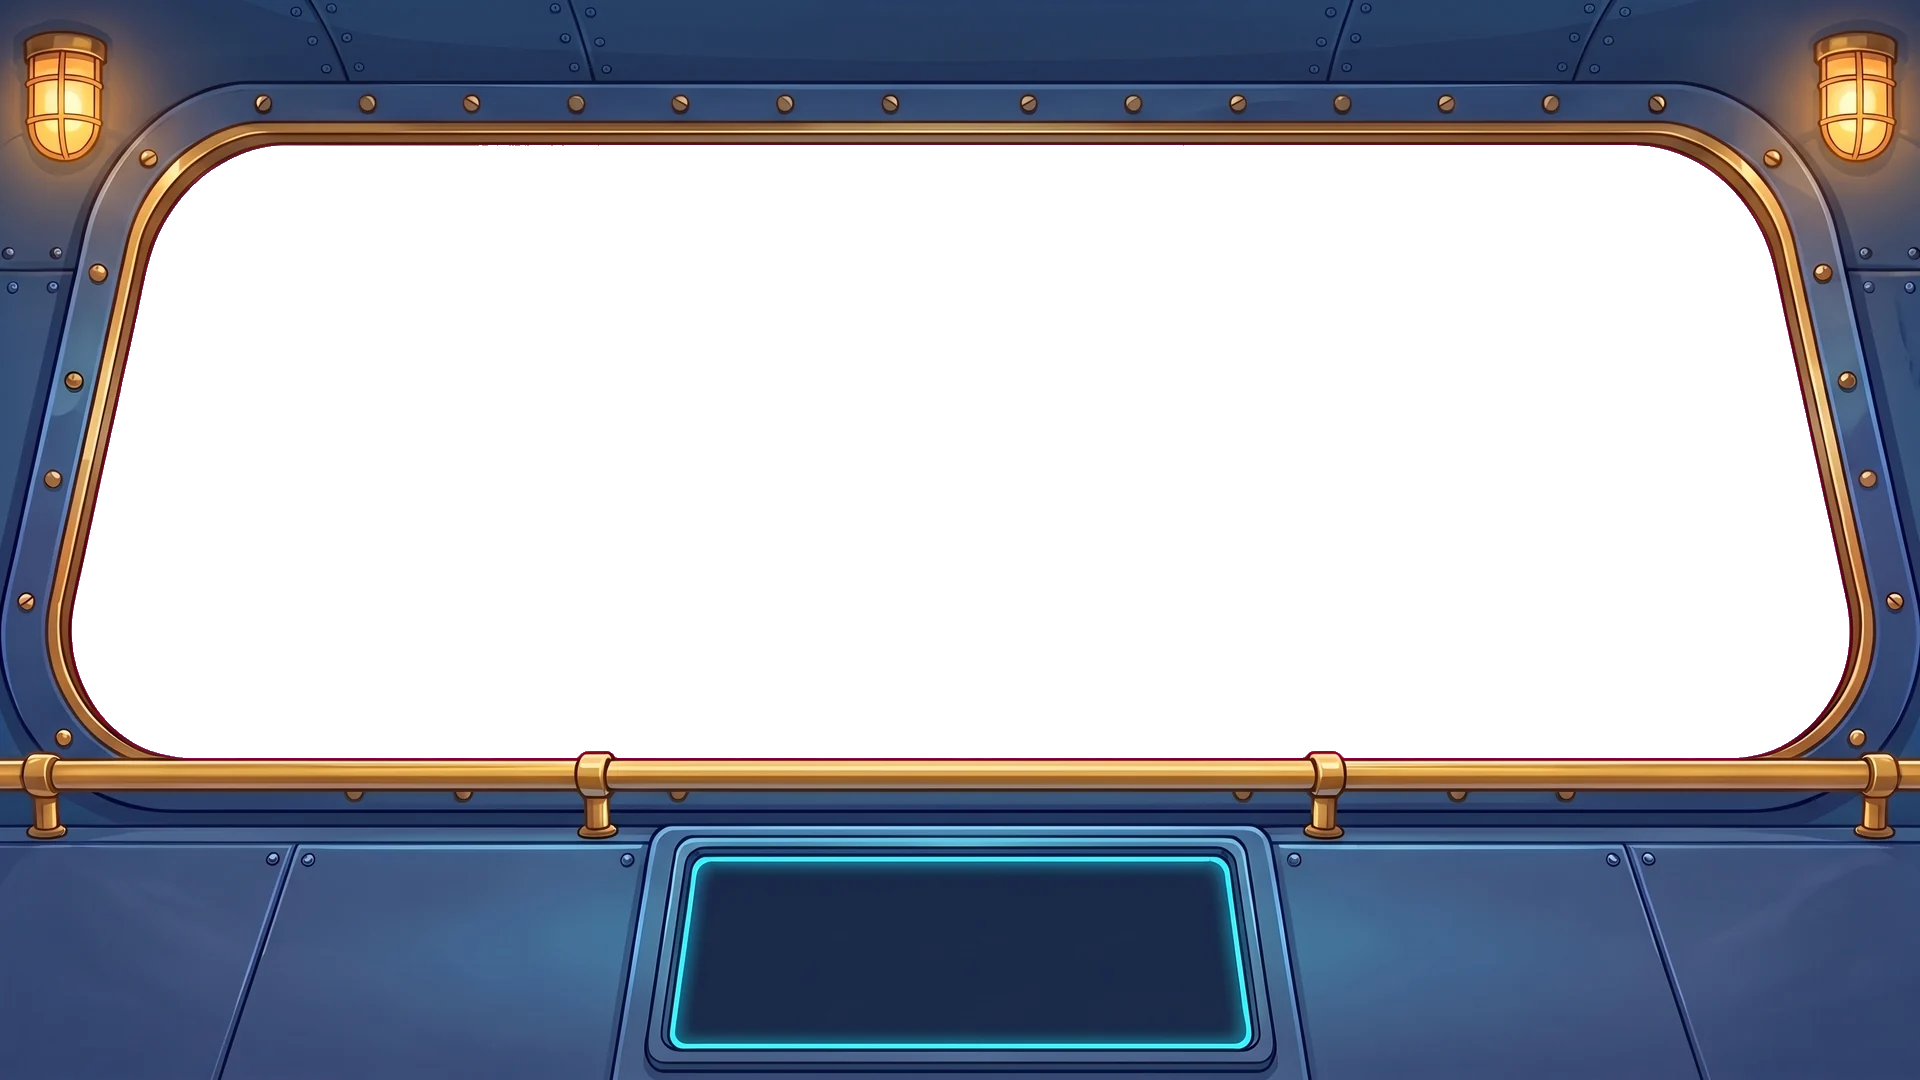
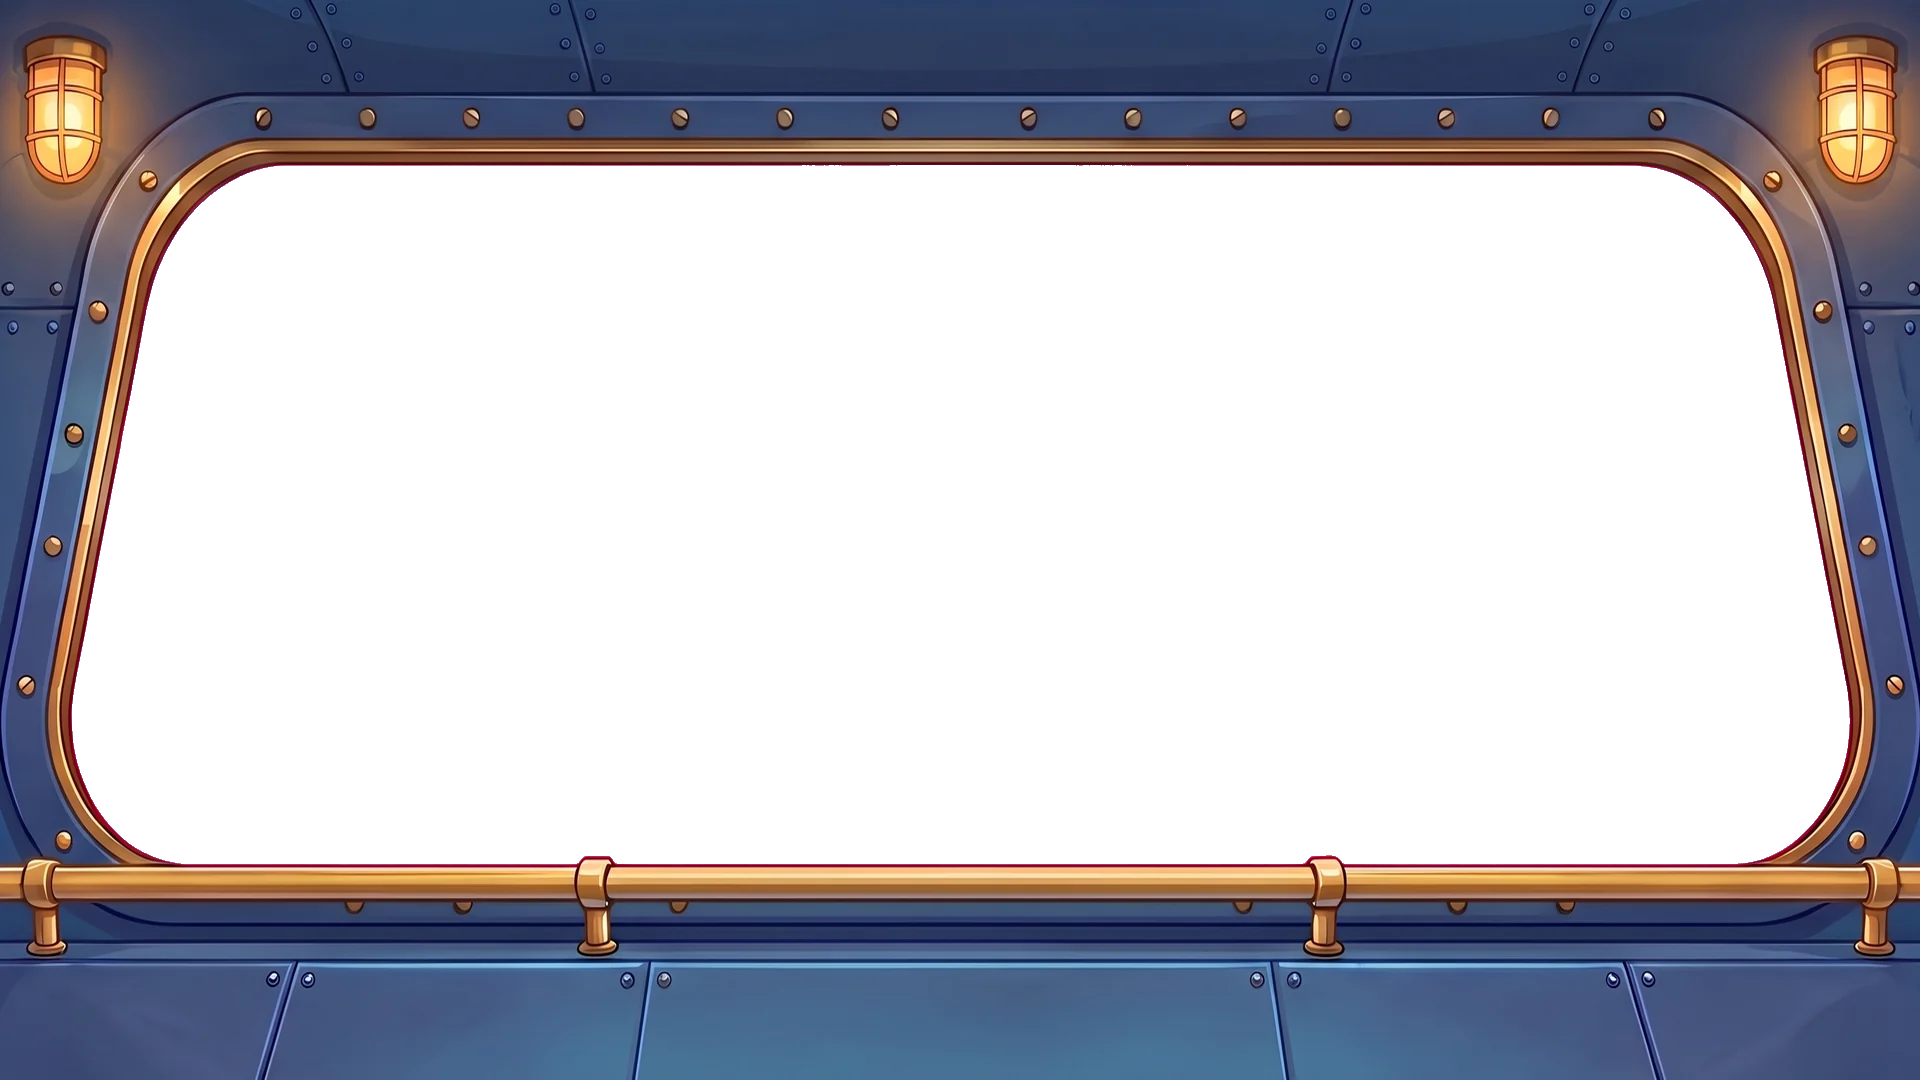
Sub version: front-facing bow cannon that slides to the target
The cannon rides the console rail under the scale, slides to the column of
the tapped submarine (lines up with its number), recoils and fires straight
ahead; home is under 0. Taller window (frame and console trimmed), the scale
and the cannon sit behind the glass display, hit subs sink behind the scale.

diff --git a/js/cockpit.js b/js/cockpit.js
@@ -1,10 +1,9 @@
 /* cockpit: sub.html only — the same game seen from inside the submarine.
    world.js still draws the sea, the scale, the enemy submarines and every effect; this file swaps the ship's launcher for the
-   bow torpedo tube, puts Meera and Riya at their stations (their talking sheets play while they speak) and adds cockpit
+   bow cannon that slides along under the scale and fires the torpedoes, puts Meera and Riya at their stations (their talking sheets play while they speak) and adds cockpit
    feedback: red warning lamps on a miss, a hull kick when a torpedo leaves, the engines rumbling when we sail on. */
 (function () {
   const { $, SFX } = SD, X = W.X, el = W.el, sea = $('#bubbles');   // sea: outside the glass, behind the scale
-  const TUBE = { x: 960, y: 820 };                 // the bow tube, just below the window (the frame hides the start)
 
   /* ---- crew ---- */
   const crew = $('#crew');
@@ -18,38 +17,62 @@
 
   /* ---- console screen: a slow sonar trace while nobody is talking (dialogue appears on the same screen) ---- */
   const scope = $('#scope'), comms = $('#comms');
-  scope.innerHTML = '<svg viewBox="0 0 1064 212" preserveAspectRatio="none"><path d="M0 106 H1064" stroke="rgba(73,220,255,.18)" stroke-width="2"/>' +
+  scope.innerHTML = '<svg viewBox="0 0 1064 142" preserveAspectRatio="none"><path d="M0 71 H1064" stroke="rgba(73,220,255,.18)" stroke-width="2"/>' +
     '<path id="trace" fill="none" stroke="#49dcff" stroke-width="3" stroke-linejoin="round" opacity=".7"/></svg><span class="lbl2">SONAR</span>';
   const trace = $('#trace');
   gsap.ticker.add(t => {
     const talk = +gsap.getProperty(comms, 'opacity'); scope.style.opacity = (1 - talk) * .9;
     if (talk > .95 || SD.paused) return;
     const ph = (t * .35) % 1.3 - .15; let d = '';
-    for (let x = 0; x <= 1064; x += 8) { const u = x / 1064, k = Math.exp(-Math.pow((u - ph) / .035, 2)); d += (x ? ' L' : 'M') + x + ' ' + (106 - Math.sin(u * 90) * 46 * k - Math.sin(u * 13 + t * 2) * 3).toFixed(1); }
+    for (let x = 0; x <= 1064; x += 8) { const u = x / 1064, k = Math.exp(-Math.pow((u - ph) / .035, 2)); d += (x ? ' L' : 'M') + x + ' ' + (71 - Math.sin(u * 90) * 34 * k - Math.sin(u * 13 + t * 2) * 3).toFixed(1); }
     trace.setAttribute('d', d);
   });
 
-  /* ---- aiming: the reticle does it; nothing on board rotates ---- */
-  W.aimHook = () => null;
+  /* ---- the bow cannon (assets/img/cannon.webp): front-facing, its wheels ride the console rail. It slides along under
+     the scale to the column of the submarine you tap, so it lines up with that number, then fires straight ahead.
+     Home is under 0; it glides back there between missions. ---- */
+  const cn = $('#cannon'), cflash = cn.querySelector('.flash'), cring = cn.querySelector('.ring');
+  const MUZZLE_Y = 668 + .159 * 237;                 // stage y of the muzzle ring (sub.css: top + 15.9 % of the height)
+  const C = { x: X(0) }, place = () => gsap.set(cn, { x: C.x });
+  place();
+  gsap.to(cring, { opacity: .9, duration: 1.1, yoyo: true, repeat: -1, ease: 'sine.inOut' });
+  let move = null;
+  function slideTo(x, dur) {
+    if (move) move.kill();
+    const d = x - C.x; if (Math.abs(d) < 1) return (move = null);
+    const t = dur || Math.min(.8, .22 + Math.abs(d) / 2200), dir = Math.sign(d);
+    gsap.killTweensOf(cn, 'rotation');
+    gsap.timeline().to(cn, { rotation: -2.5 * dir, duration: t * .4, ease: 'power2.out' })     // the top lags as it sets off…
+      .to(cn, { rotation: 2 * dir, duration: t * .6, ease: 'power1.inOut' })                     // …swings forward as it brakes…
+      .to(cn, { rotation: 0, duration: .5, ease: 'elastic.out(1,.45)' });                          // …and settles
+    return (move = gsap.to(C, { x, duration: t, ease: 'power2.inOut', onUpdate: place }));
+  }
+  const arrive = () => new Promise(r => { if (!move || !move.isActive()) return r(); move.then(() => r()); gsap.delayedCall(1, r); });
+  W.aimHook = x => slideTo(x);                     // W.lock / W.wrong: line up under that submarine
+  const clear0 = W.clearSubs;
+  W.clearSubs = () => { slideTo(X(0), .9); return clear0(); };
 
   /* ---- hull kick: the whole cockpit jolts ---- */
   const kick = (k = 10, d = .35) => {
-    const o = { t: 0 }, parts = ['#cockpit', '#crew', '#screen', '#lamps', '#hud'];
+    const o = { t: 0 }, parts = ['#cockpit', '#crew', '#screen', '#scope', '#lamps', '#hud'];
     gsap.to(o, { t: 1, duration: d, onUpdate() { const a = (1 - o.t) * k; gsap.set(parts, { x: (Math.random() - .5) * a, y: (Math.random() - .5) * a * .6 }); }, onComplete: () => gsap.set(parts, { x: 0, y: 0 }) });
   };
 
-  /* ---- torpedo: out of the bow tube, running away from us (it shrinks) to the target ---- */
+  /* ---- torpedo: out of the cannon's muzzle, running away from us (it shrinks) to the target ---- */
   W.fire = async (s, ret) => {
-    const tx = X(s.v), ty = s.cy, sx = TUBE.x, sy = TUBE.y, cx = (sx + tx) / 2, cy = ty + (sy - ty) * .55;
-    SFX.launch(); kick(12, .3);
-    const fl = el('tubeflash', sea, { left: sx + 'px', top: '760px' }); gsap.fromTo(fl, { scale: .4, opacity: 1 }, { scale: 1.8, opacity: 0, duration: .5, onComplete: () => fl.remove() });
-    for (let i = 0; i < 8; i++) { const b = el('pbub', sea, { left: (sx + (Math.random() - .5) * 120) + 'px', top: (740 + Math.random() * 20) + 'px', width: '16px', height: '16px' }); gsap.to(b, { y: -80 - Math.random() * 120, x: (Math.random() - .5) * 120, scale: 1.6, opacity: 0, duration: 1 + Math.random() * .6, onComplete: () => b.remove() }); }
+    await arrive();
+    const tx = X(s.v), ty = s.cy, sx = C.x, sy = MUZZLE_Y, cx = (sx + tx) / 2, cy = (sy + ty) / 2;
+    SFX.launch(); kick(10, .3);
+    // recoil + muzzle flash + a burst of bubbles
+    gsap.fromTo(cn, { y: 0 }, { keyframes: [{ y: 16, duration: .06, ease: 'power2.out' }, { y: 0, duration: .5, ease: 'elastic.out(1,.45)' }] });
+    gsap.fromTo(cflash, { opacity: 1, scale: .35 }, { opacity: 0, scale: 1.5, duration: .38, ease: 'power2.out' });
+    for (let i = 0; i < 9; i++) { const b = el('pbub', sea, { left: (sx + (Math.random() - .5) * 60) + 'px', top: (sy - 20 + Math.random() * 20) + 'px', width: '14px', height: '14px' }); gsap.to(b, { y: -60 - Math.random() * 90, x: (Math.random() - .5) * 120, scale: 1.6, opacity: 0, duration: 1 + Math.random() * .6, onComplete: () => b.remove() }); }
     const t = new Image(); t.src = 'assets/img/torpedo.webp'; t.className = 'torp'; sea.appendChild(t);   // it runs outside, behind the scale on the glass
     const o = { p: 0 }; let last = 0;
     await new Promise(r => gsap.to(o, { p: 1, duration: .8, ease: 'power1.in', onUpdate() {
       const p = o.p, q = 1 - p, x = q * q * sx + 2 * q * p * cx + p * p * tx, y = q * q * sy + 2 * q * p * cy + p * p * ty;
       const dx = 2 * q * (cx - sx) + 2 * p * (tx - cx), dy = 2 * q * (cy - sy) + 2 * p * (ty - cy);
-      t.style.left = x + 'px'; t.style.top = y + 'px'; t.style.transform = `rotate(${Math.atan2(dy, dx)}rad) scale(${1.7 - 1.05 * p})`;
+      t.style.left = x + 'px'; t.style.top = y + 'px'; t.style.transform = `rotate(${Math.atan2(dy, dx)}rad) scale(${1.3 - .75 * p})`;
       if (p - last > .06) { last = p; const b = el('tbub', sea, { left: x + 'px', top: y + 'px', width: (16 - 8 * p) + 'px', height: (16 - 8 * p) + 'px' }); gsap.to(b, { y: -30 - Math.random() * 30, scale: 1.8, opacity: 0, duration: 1.1, onComplete: () => b.remove() }); }
     }, onComplete: r }));
     t.remove(); if (ret) ret.remove();
@@ -57,13 +80,17 @@
     await W.blast(s);
   };
 
+  /* ---- a hit submarine sinks behind the scale (the scale is on the glass, the submarine is outside) ---- */
+  const blast0 = W.blast;
+  W.blast = s => { $('#sunk').appendChild(s.d); return blast0(s); };
+
   /* ---- a miss: the warning lamps flash red and the window glows ---- */
   const wrong0 = W.wrong;
   W.wrong = async s => {
     const lamps = $('#lamps').querySelectorAll('i'), edge = $('#lamps .edge');
     gsap.fromTo(lamps, { opacity: 0 }, { opacity: 1, duration: .14, yoyo: true, repeat: 5, ease: 'power1.inOut' });
     gsap.fromTo(edge, { opacity: 0 }, { opacity: .9, duration: .2, yoyo: true, repeat: 3 });
-    kick(5, .3);
+    kick(5, .3); arrive().then(() => gsap.fromTo(cn, { rotation: 0 }, { rotation: 2.5, duration: .05, yoyo: true, repeat: 5 }));   // the cannon judders: no shot
     return wrong0(s);
   };
 

diff --git a/css/sub.css b/css/sub.css
@@ -13,7 +13,7 @@
   background:linear-gradient(112deg,rgba(255,255,255,0) 26%,rgba(255,255,255,.08) 33%,rgba(255,255,255,0) 41%,rgba(255,255,255,0) 58%,rgba(255,255,255,.05) 62%,rgba(255,255,255,0) 66%),
     radial-gradient(115% 95% at 50% 42%,rgba(0,0,0,0) 62%,rgba(0,18,46,.5))}
 #cockpit{position:absolute;left:0;top:0;width:1920px;height:1080px;pointer-events:none;user-select:none;-webkit-user-drag:none}
-#crew,#lamps,#screen{position:absolute;inset:0;pointer-events:none}
+#crew,#lamps,#screen,#sunk{position:absolute;inset:0;pointer-events:none}
 
 /* warning lamps: the two caged ceiling lamps flash red on a miss */
 #lamps i{position:absolute;top:-34px;width:260px;height:260px;margin-left:-130px;border-radius:50%;opacity:0;mix-blend-mode:screen;
@@ -22,15 +22,15 @@
 #lamps .edge{position:absolute;left:72px;top:145px;width:1776px;height:612px;border-radius:120px;opacity:0;box-shadow:inset 0 0 120px 24px rgba(255,50,40,.6)}   /* the window glows red */
 
 /* the console display: dialogue appears here */
-#screen::before{content:"";position:absolute;left:412px;top:800px;width:1096px;height:244px;border-radius:30px;
+#screen::before{content:"";position:absolute;left:412px;top:904px;width:1096px;height:166px;border-radius:30px;
   background:linear-gradient(#253c5c,#14263e);box-shadow:0 10px 26px rgba(0,8,24,.55),inset 0 2px 0 rgba(255,255,255,.18),inset 0 -3px 0 rgba(0,0,0,.35)}
-#screen::after{content:"";position:absolute;left:428px;top:816px;width:1064px;height:212px;border-radius:22px;
+#screen::after{content:"";position:absolute;left:426px;top:916px;width:1068px;height:142px;border-radius:22px;
   background:repeating-linear-gradient(rgba(127,242,255,.035) 0 2px,transparent 2px 5px),radial-gradient(120% 140% at 50% 0%,#123b66,#071d38 70%);
   border:3px solid #49dcff;box-shadow:0 0 18px rgba(73,220,255,.55),inset 0 0 26px rgba(73,220,255,.22)}
-.subview #comms{left:428px;top:816px;width:1064px;height:212px}
+.subview #comms{left:426px;top:916px;width:1068px;height:142px}
 .subview #portrait{display:none}
 .subview #pName{left:26px;top:-20px;border-radius:12px;padding:6px 18px 4px;box-shadow:0 3px 0 rgba(0,0,0,.25)}
-.subview #caption{left:0;top:0;width:100%;height:100%;max-width:none;min-height:0;box-sizing:border-box;padding:36px 40px 18px;border:none;border-radius:22px;background:none;box-shadow:none;
+.subview #caption{left:0;top:0;width:100%;height:100%;max-width:none;min-height:0;box-sizing:border-box;padding:22px 40px 10px;border:none;border-radius:22px;background:none;box-shadow:none;
   display:flex;align-items:center;font:600 36px/1.25 Baloo,sans-serif}
 .subview #comms.riya #pName{background:#ffc04d}
 
@@ -48,9 +48,16 @@
 .subview #btnSpeak{left:528px;top:34px}   /* clear of the right-hand ceiling lamp */
 
 /* idle console screen: a slow sonar trace until someone speaks */
-#scope{position:absolute;left:428px;top:816px;width:1064px;height:212px;border-radius:22px;overflow:hidden;pointer-events:none}
+#scope{position:absolute;left:426px;top:916px;width:1068px;height:142px;border-radius:22px;overflow:hidden;pointer-events:none}
 #scope svg{position:absolute;left:0;top:0;width:100%;height:100%}
-#scope .lbl2{position:absolute;right:30px;bottom:18px;font:700 20px/1 Fredoka,sans-serif;letter-spacing:3px;color:#49dcff;opacity:.55}
+#scope .lbl2{position:absolute;right:26px;bottom:12px;font:700 20px/1 Fredoka,sans-serif;letter-spacing:3px;color:#49dcff;opacity:.55}
+
+/* the bow cannon: outside the glass, front-facing; its wheels ride the console rail (hidden behind it) */
+#cannon{position:absolute;left:0;top:668px;width:210px;height:237px;margin-left:-105px;pointer-events:none;transform-origin:50% 100%;filter:drop-shadow(0 6px 10px rgba(0,12,34,.45))}
+#cannon img{display:block;width:100%;height:100%}
+#cannon i{position:absolute;left:50%;top:38px;border-radius:50%;pointer-events:none}
+#cannon .ring{width:70px;height:70px;margin:-35px 0 0 -35px;box-shadow:0 0 16px 6px rgba(73,220,255,.65),inset 0 0 12px 4px rgba(73,220,255,.5);opacity:.35}
+#cannon .flash{width:180px;height:180px;margin:-90px 0 0 -90px;background:radial-gradient(circle,#fff,rgba(201,251,255,.85) 28%,rgba(73,220,255,0) 68%);opacity:0;mix-blend-mode:screen}
 
 /* torpedo leaving the bow tube */
 .tubeflash{position:absolute;width:220px;height:120px;margin:-60px 0 0 -110px;border-radius:50%;pointer-events:none;

diff --git a/sub.html b/sub.html
@@ -23,6 +23,9 @@
     <div class="deep"></div>
   </div>
   <div id="bubbles"></div>
+  <div id="sunk"></div>
+  <!-- the bow cannon, outside the glass (behind the scale on the glass): it rides the console rail, js/cockpit.js -->
+  <div id="cannon"><img src="assets/img/cannon.webp" alt=""><i class="ring"></i><i class="flash"></i></div>
 
   <div id="scale"></div>
   <div id="play" class="abs" style="width:1920px;height:1080px"></div>
@@ -61,7 +64,7 @@
 <script src="js/gsap.min.js"></script>
 <script src="js/script.js"></script>
 <script src="js/layout_sub.js"></script>
-<script>window.WORLD_DEFAULTS = { SUB_Y: 420, SUB_ROW: -105, SIG_Y1: 215, SIG_Y2: 283, SCALE_DY: 100 };   /* cockpit: subs out in the water, the scale low on the glass */</script>
+<script>window.WORLD_DEFAULTS = { SUB_Y: 410, SUB_ROW: -105, SIG_Y1: 212, SIG_Y2: 280, SCALE_DY: 60 };   /* cockpit: subs out in the water, the scale low on the glass */</script>
 <script src="assets/vo/vo_manifest.js"></script>
 <script src="js/core.js"></script>
 <script src="js/world.js"></script>

diff --git a/README.md b/README.md
@@ -36,11 +36,12 @@ python3 tools/make_voices.py       # makes every line that has no wav yet
 ## Submarine version (`sub.html`)
 The camera is inside the submarine, looking out through the bow window (`assets/img/cockpit.webp`, the window glass is transparent).
 - The enemy submarines are out in the water; the navigation scale sits low on the glass, flat and evenly spaced (the same −8 … +8). Dotted sonar lines join each submarine to its number.
-- Torpedoes leave the bow tube at bottom-centre and run away from us (they shrink) behind the scale to the target; the cockpit jolts on launch and hit.
-- A miss flashes the two ceiling lamps red and the window edge glows red.
+- The bow cannon (`assets/img/cannon.webp`, front-facing, made with Nano Banana 2) rides the console rail under the scale. Tap a submarine and it slides along to that submarine's column (it lines up with the number), then fires straight ahead: recoil, muzzle flash, and the torpedo runs away from us (it shrinks) behind the scale to the target. Home is under 0; it glides back there between missions. The cockpit jolts on launch and hit; a hit submarine sinks behind the scale.
+- A miss: the cannon lines up under the wrong submarine and judders (no shot), the two ceiling lamps flash red and the window edge glows red.
 - Meera (left) and Riya (right) stand at their stations; whoever speaks plays their talking sheet and lights up. Dialogue appears on the console screen, which shows a slow sonar trace when nobody is talking.
 - Level 3 pair buttons sit high in the window, above the submarines.
-- Code: `world.js` is shared (it skips the ship when there is no `#ship`); `js/cockpit.js` swaps the launcher for the bow tube and adds the crew and cockpit effects; `css/sub.css` holds the layout; the layout constants for this version are in the inline `WORLD_DEFAULTS` in `sub.html` (`SUB_Y`, `SUB_ROW`, `SIG_Y1/2`, `SCALE_DY`).
+- Art: the cockpit frame (`assets/img/cockpit.webp`, glass cut out) and the cannon are Gemini images in the game's style; the cannon's muzzle position is `MUZZLE_Y` in `js/cockpit.js` (keep it in step with `#cannon` in `css/sub.css`).
+- Code: `world.js` is shared (it skips the ship when there is no `#ship`); `js/cockpit.js` swaps the launcher for the sliding bow cannon and adds the crew and cockpit effects; `css/sub.css` holds the layout; the layout constants for this version are in the inline `WORLD_DEFAULTS` in `sub.html` (`SUB_Y`, `SUB_ROW`, `SIG_Y1/2`, `SCALE_DY`).
 - Layout editor: `sub.html?edit=1` saves to `js/layout_sub.js`. QA jumper: `sub.html?qa=1`.
 
 ## QA jumper (for testers)
